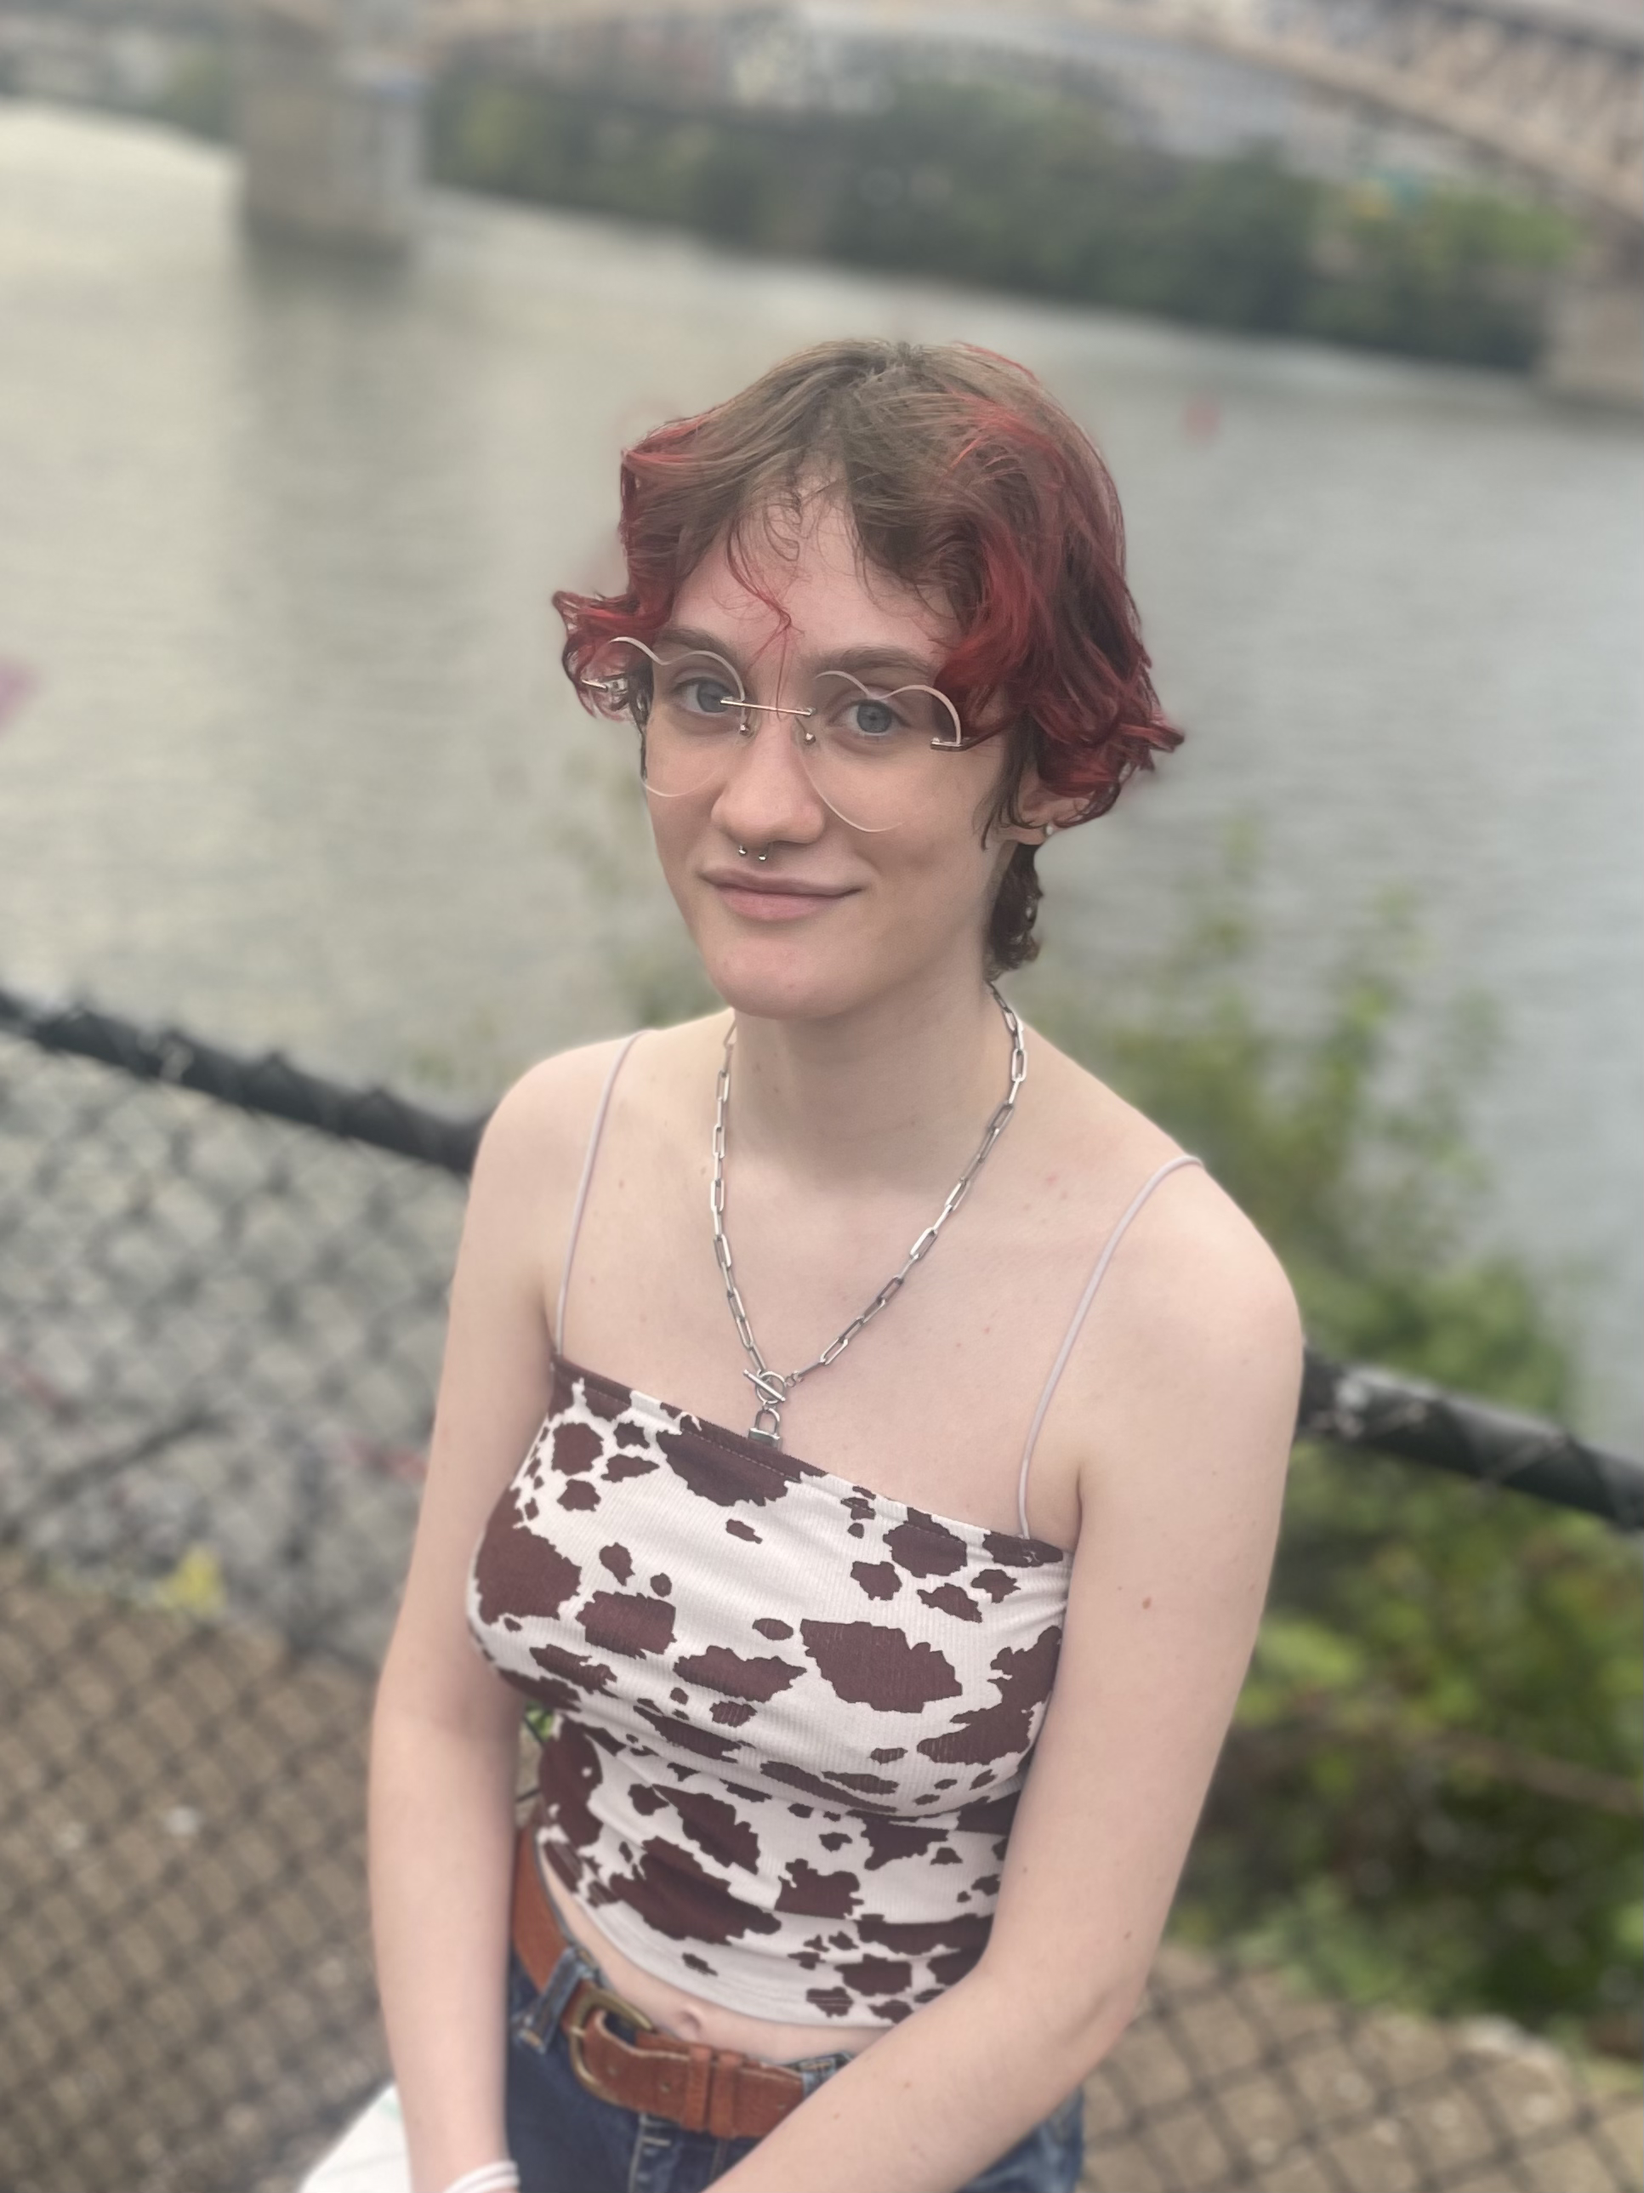
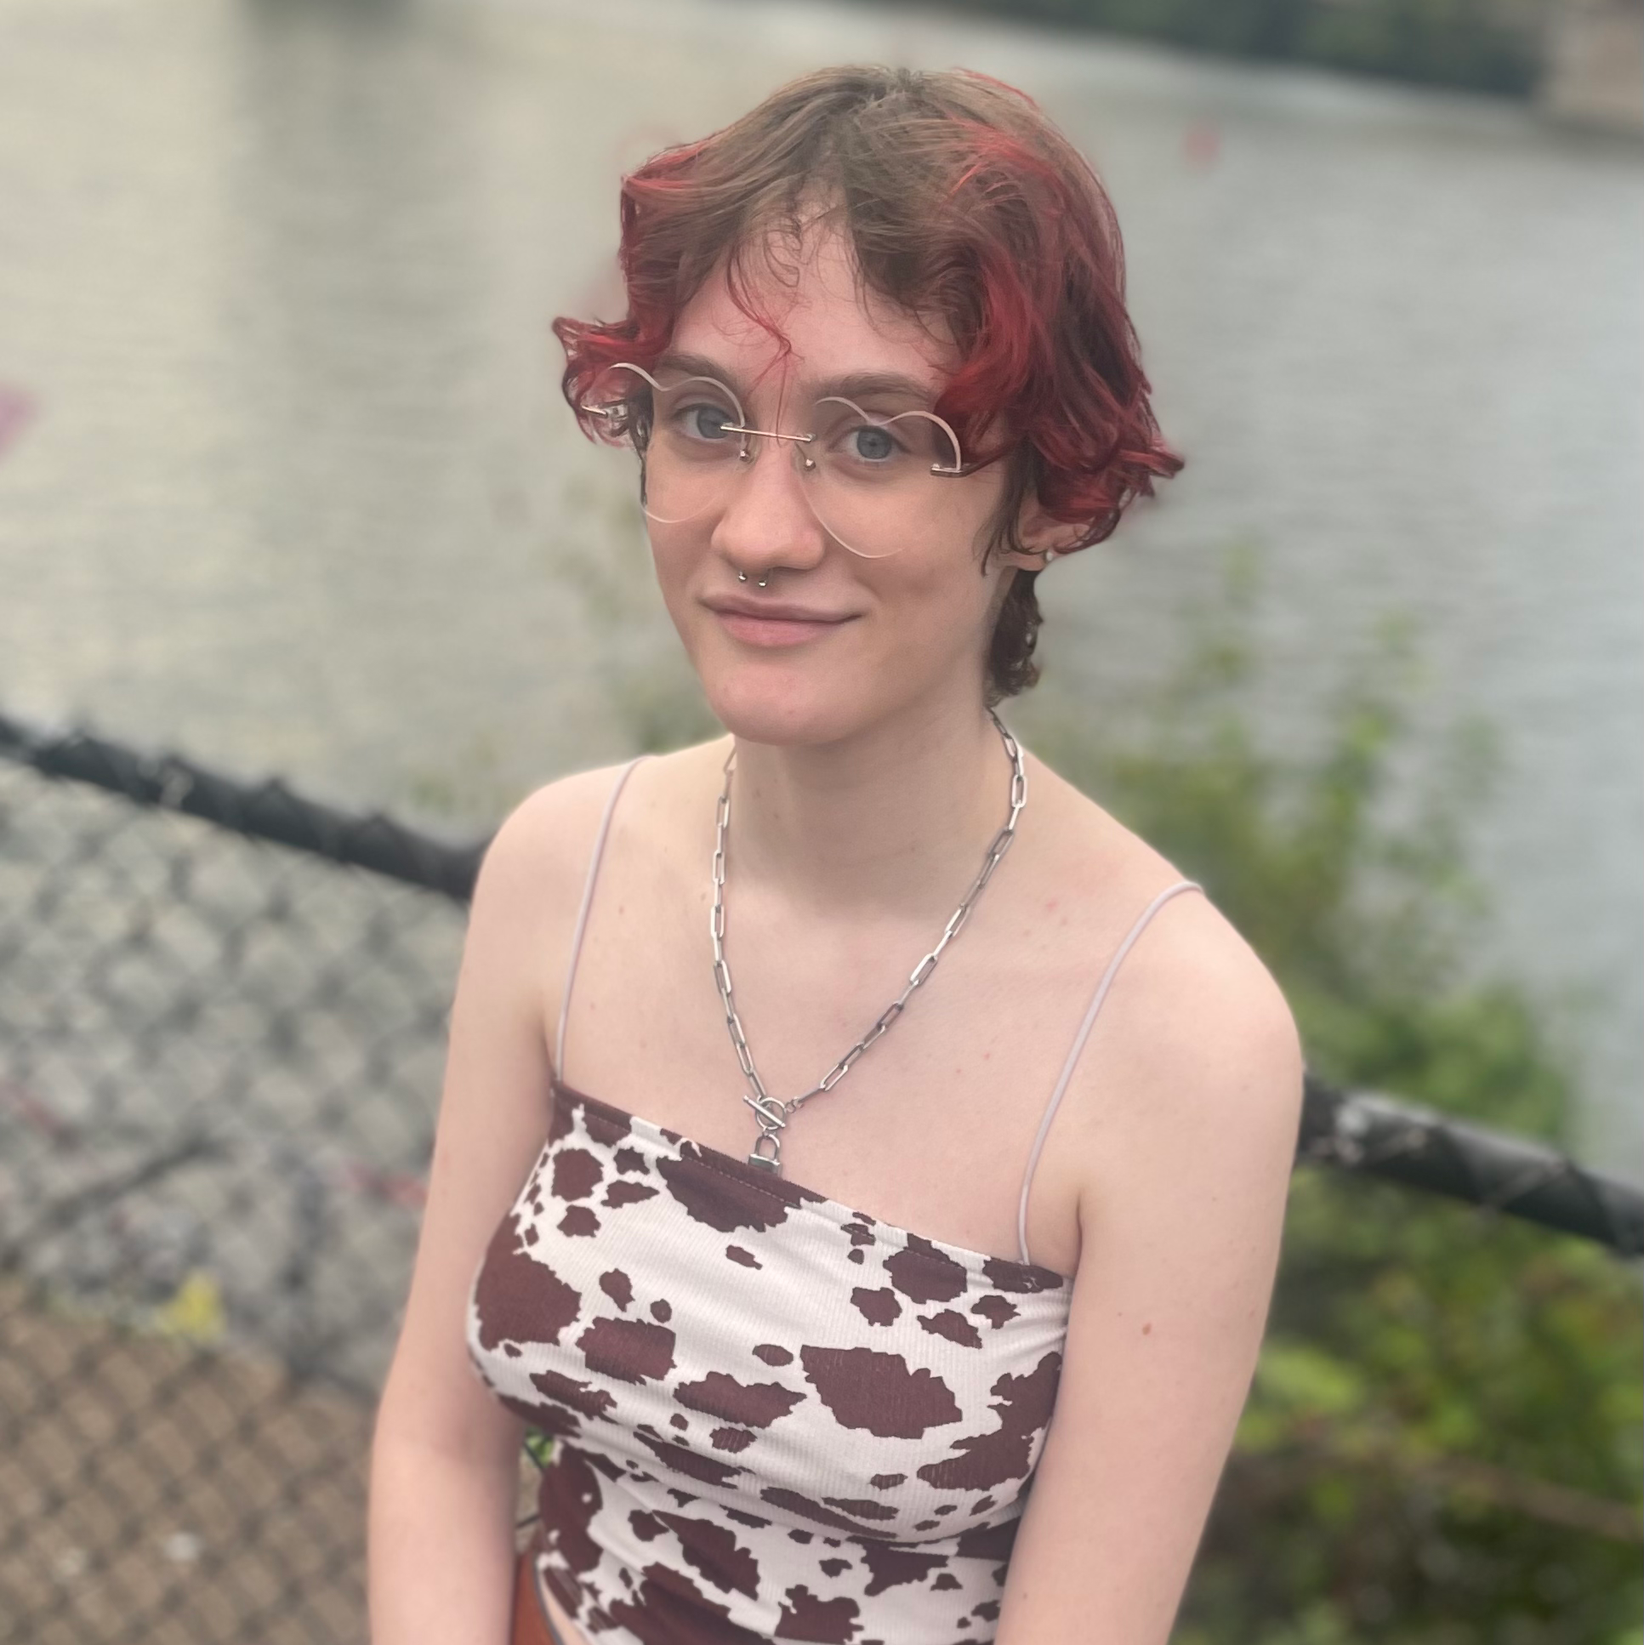
Fixed image shape, spacing

diff --git a/about.html b/about.html
@@ -155,7 +155,7 @@
                                     <section>
                                         <div class="image grid"><img src="images/abby.png" alt="" /></div>
                                         <header>
-                                            <h3>Abby Miller-Peterson</h3><br>
+                                            <h3>Abby Miller-Peterson</h3>
                                             <p>He/They</p>
                                         </header>
                                         <p>Technical Coordinator<br><a href="mailto:snstheatre.tc@gmail.com" target="_blank">snstheatre.tc@gmail.com</a></p>
@@ -200,7 +200,7 @@
                                     <section>
                                         <div class="image grid"><img src="images/martin.jpeg" alt="" /></div>
                                         <header>
-                                            <h3>Martin Baker</h3><br>
+                                            <h3>Martin Baker</h3>
                                             <p>They/She</p>
                                         </header>
                                         <p>Executive Board Member<br><a href="mailto:snstheatre.ebm@gmail.com" target="_blank">snstheatre.ebm@gmail.com</a></p>
